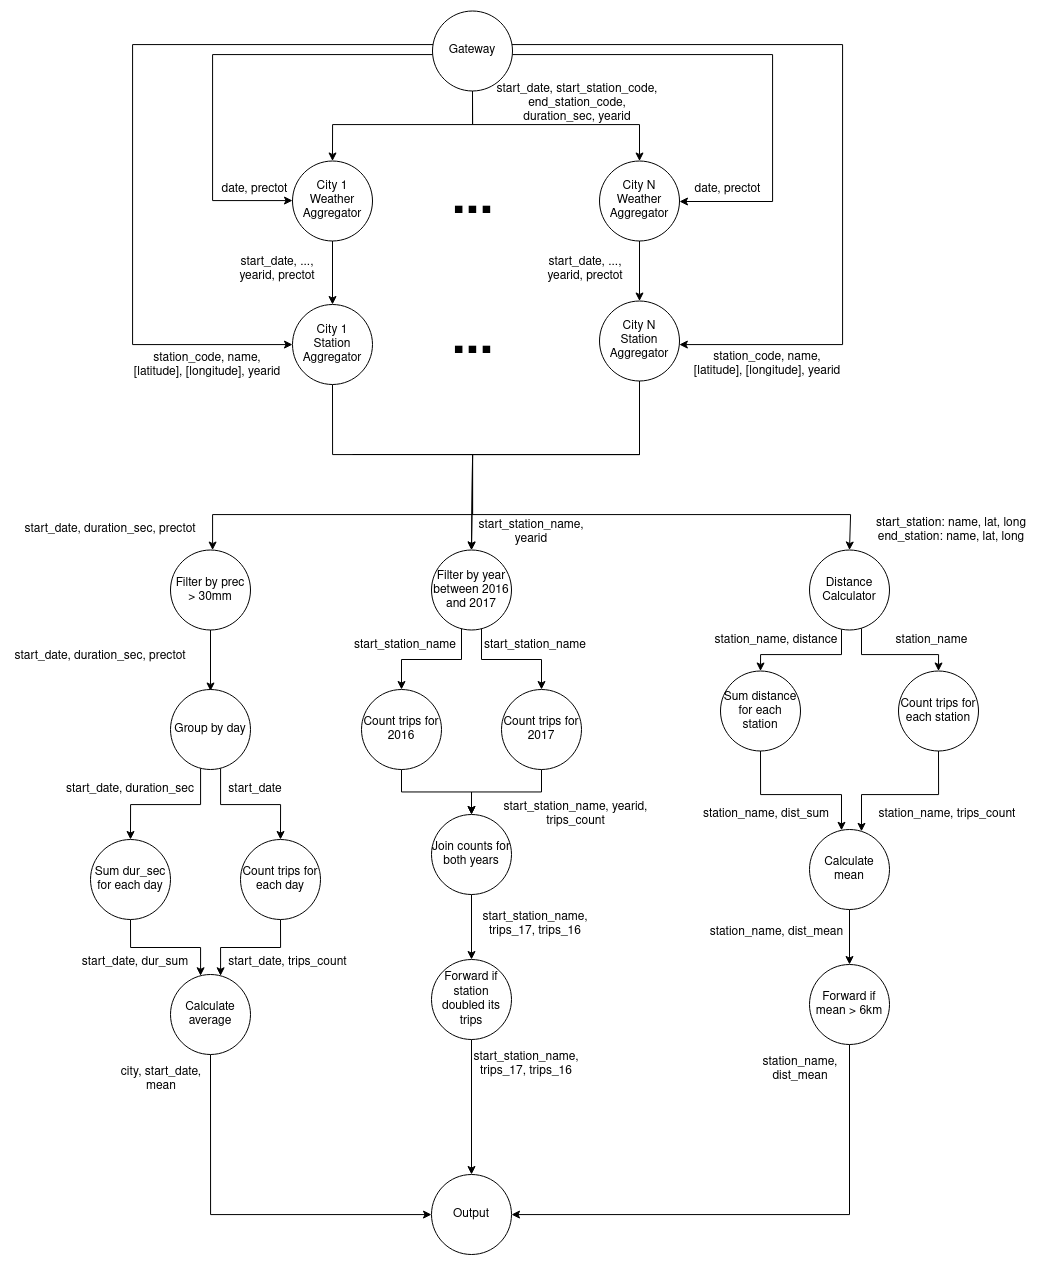
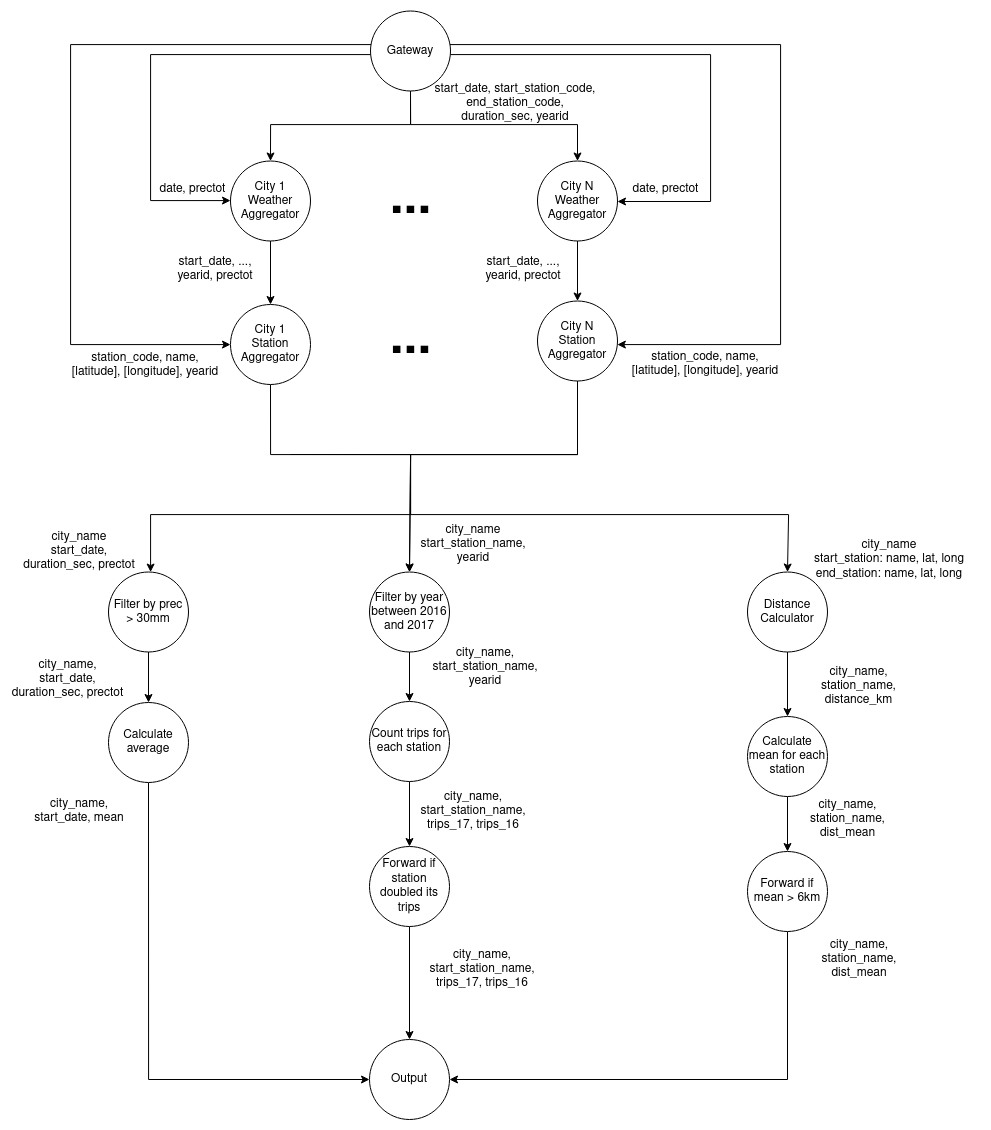
Add more docs and fix bugs

diff --git a/containers/common/readers.py b/containers/common/readers.py
@@ -1,4 +1,5 @@
 import json
+import logging
 from dataclasses import dataclass
 from typing import Iterator, Union, List
 
@@ -123,7 +124,11 @@ class WeatherReader:
         with open(self.__weather_path()) as f:
             _ = f.readline()
             for line in f:
-                weather_info = WeatherInfo.from_csv(self._city, line)
+                try:
+                    weather_info = WeatherInfo.from_csv(self._city, line)
+                except ValueError as e:
+                    logging.error(f"action: weather_info_next_data | result: failed | error: {e}")
+                    continue
                 yield weather_info
 
 
@@ -139,7 +144,11 @@ class StationReader:
         with open(self.__station_path()) as f:
             _ = f.readline()
             for line in f:
-                station_info = StationInfo.from_csv(self._city, line)
+                try:
+                    station_info = StationInfo.from_csv(self._city, line)
+                except ValueError as e:
+                    logging.error(f"action: station_info_next_data | result: failed | error: {e}")
+                    continue
                 yield station_info
 
 
@@ -156,7 +165,11 @@ class TripReader:
             _ = f.readline()
             trip_info_list = []
             for line in f:
-                trip_info = TripInfo.from_csv(self._city, line)
+                try:
+                    trip_info = TripInfo.from_csv(self._city, line)
+                except ValueError as e:
+                    logging.error(f"action: trip_info_next_data | result: failed | error: {e}")
+                    continue
                 trip_info_list.append(trip_info)
                 if len(trip_info_list) == CHUNK_SIZE:
                     yield trip_info_list

diff --git a/containers/simple_station_aggregator/simple_station_aggregator.py b/containers/simple_station_aggregator/simple_station_aggregator.py
@@ -50,15 +50,22 @@ class SimpleStationAggregator(BasicAggregator):
             eof_prec_filter_in_queue: [self._city_name.encode()]
         }
 
-    def __assert_station_name_exists(self, station_code: int, yearid: int):
+    def __check_station_name_exists(self, station_code: int, yearid: int) -> bool:
         if (station_code, yearid) not in self._stations:
-            raise ValueError(f"Station name not found for station code {station_code} and yearid {yearid}")
+            logging.warning(f"Station name not found for station code {station_code} and yearid {yearid}")
+            return False
+        return True
 
     def handle_message(self, message: bytes) -> Dict[str, List[bytes]]:
         packet = GatewayOut.decode(message)
 
-        self.__assert_station_name_exists(packet.start_station_code, packet.yearid)
-        self.__assert_station_name_exists(packet.end_station_code, packet.yearid)
+        check_1 = self.__check_station_name_exists(packet.start_station_code,
+                                                   packet.yearid)
+        check_2 = self.__check_station_name_exists(packet.end_station_code,
+                                                   packet.yearid)
+
+        if not check_1 or not check_2:
+            return {}
 
         start_station_name = self._stations[(packet.start_station_code, packet.yearid)]
 

diff --git a/containers/common/basic_client.py b/containers/common/basic_client.py
@@ -80,8 +80,8 @@ class BasicClient(ABC):
     def __send_data_from_city(self, city: str):
         logging.info(f"action: client_send_data | result: in_progress | city: {city}")
         push_socket = self._context.socket(zmq.PUSH)
-        push_socket.connect(self._push_addr)
         push_socket.setsockopt(zmq.LINGER, 0)
+        push_socket.connect(self._push_addr)
 
         try:
             self.__send_weather_data(push_socket, city)
@@ -93,12 +93,12 @@ class BasicClient(ABC):
         except Exception as e:
             logging.error(f"action: client_send_data | result: error | city: {city} | error: {e}")
         finally:
-            push_socket.close()
+            push_socket.close(-1)
 
     def __send_cities_data(self):
         threads = []
         for city in self._all_cities:
-            thread = threading.Thread(target=self.__send_data_from_city(city))
+            thread = threading.Thread(target=self.__send_data_from_city, args=(city,))
             threads.append(thread)
             thread.start()
 

diff --git a/containers/trips_counter/trips_counter.py b/containers/trips_counter/trips_counter.py
@@ -28,8 +28,7 @@ class TripsCounter(BasicFilter):
 
     def handle_eof(self, message: bytes) -> Dict[str, List[bytes]]:
         city_name = message.decode()
-        output = OrderedDict()
-        logging.info(f"action: trips_counter_handle_eof | city_name: {city_name} | data: {self._buffer}")
+        output = {}
         self._buffer.setdefault(city_name, {})
         for start_station_name, data in self._buffer[city_name].items():
             queue = build_hashed_queue_name(self._output_queue,
@@ -41,8 +40,7 @@ class TripsCounter(BasicFilter):
                                                         data[2016],
                                                         data[2017]).encode())
 
-        logging.info(f"action: trips_counter_send_data | city_name: {city_name} | data: {output}")
-        # self._buffer.pop(city_name)
+        self._buffer.pop(city_name)
         eof_output_queue = build_eof_in_queue_name(self._output_queue)
         output[eof_output_queue] = [message]
         return output

diff --git a/containers/common/rabbit_middleware.py b/containers/common/rabbit_middleware.py
@@ -16,7 +16,6 @@ class Rabbit(MessageQueue):
         self.connection = pika.BlockingConnection(
             pika.ConnectionParameters(host=host))
         self._channel = self.connection.channel()
-        self._channel.basic_qos(prefetch_count=1)
         self._declared_exchanges = []
         self._declared_queues = []
         self._consume_one_last_queue = None
@@ -84,8 +83,9 @@ class Rabbit(MessageQueue):
 
     def consume_one(self, queue: str, callback: Callable[[bytes], bool]):
         if queue != self._consume_one_last_queue:
+            if self._consume_one_last_queue is not None:
+                self._channel.cancel()
             self._consume_one_last_queue = queue
-            self._channel.cancel()
 
         self.declare_queue(queue)
         for (method, _, msg) in self._channel.consume(queue=queue, auto_ack=False):

diff --git a/containers/common/packet_factory.py b/containers/common/packet_factory.py
@@ -54,7 +54,7 @@ class PacketFactory:
 
     @staticmethod
     def handle_packet(data: bytes, weather_callback, station_callback, trip_callback):
-        decoded = json.loads(data.decode())
+        decoded = json.loads(data)
         packet_type = decoded["type"]
         payload = decoded["payload"]
         if packet_type == "weather":

diff --git a/containers/gateway/gateway.py b/containers/gateway/gateway.py
@@ -99,7 +99,6 @@ class Gateway:
         try:
             while True:
                 message = bytes(socket.recv())
-
                 PacketFactory.handle_packet(message,
                                             self.__handle_weather_packet,
                                             self.__handle_station_packet,

diff --git a/containers/dist_mean_provider/dist_mean_provider.py b/containers/dist_mean_provider/dist_mean_provider.py
@@ -4,7 +4,6 @@ import os
 from typing import Dict, List
 
 from common.basic_filter import BasicFilter
-from common.packets.eof import Eof
 from common.packets.station_dist_mean import StationDistMean
 from common.utils import initialize_log, build_eof_in_queue_name
 

diff --git a/containers/client/client.py b/containers/client/client.py
@@ -1,5 +1,6 @@
 import logging
 import os
+import time
 from typing import Iterator, List
 
 from common.basic_client import BasicClient

diff --git a/containers/common/basic_filter.py b/containers/common/basic_filter.py
@@ -1,6 +1,5 @@
 import abc
 import json
-import logging
 import os
 from abc import ABC
 from typing import List, Dict

diff --git a/README.md b/README.md
@@ -11,9 +11,15 @@
         * [DAG](#dag)
     * [Vista Física](#vista-física)
         * [Diagrama de robustez](#diagrama-de-robustez)
+        * [Sincronización de EOFs](#sincronización-de-eofs)
         * [Diagrama de despliegue](#diagrama-de-despliegue)
     * [Vista de Procesos](#vista-de-procesos)
         * [Diagrama de actividad](#diagrama-de-actividad)
+        * [Diagrama de secuencia](#diagrama-de-secuencia)
+    * [Vista de Desarrollo](#vista-de-desarrollo)
+        * [Diagrama de paquetes](#diagrama-de-paquetes)
+    * [Vista Lógica](#vista-lógica)
+        * [Diagrama de clases](#diagrama-de-clases)
 
 ## Documentación
 
@@ -33,9 +39,9 @@ Se deben generar los siguientes reportes:
 
 ### Arquitectura de Software
 
-La arquitectura es de tipo cliente-servidor, donde el servidor consiste en
-diferentes entidades, comunicadas entre sí mediante el broker de mensajes
-RabbitMQ.
+La arquitectura consiste en un cliente, que se comunica con un sistema distribuido
+mediante sockets ZMQ. El sistema procesa la información recibida utilizando RabbitMQ como
+broker de mensajes.
 
 ### Objetivos y limitaciones arquitectónicas
 
@@ -76,27 +82,58 @@ Esto favorece la escalabilidad del sistema, a costa de duplicar la información 
 
 #### Diagrama de robustez
 
-![robustness_diagram_1](docs/robustness_1.png)
+![robustness_diagram_1](docs/robustness_simple.png)
 
 Diagrama de robustez simplificado
 
 Como se puede ver, varias entidades del sistema pueden ser replicadas, para permitir un escalado
 horizontal.
 
-Algunas entidades poseen el estereotipo `<<City Affinity>>`. Esto quiere decir que, para dicha entidad,
-existirá un nodo por cada ciudad. Por ejemplo, se deben desplegar tres instancias de `Dist Mean Calculator`.
+El cliente se comunica con el sistema a través de dos endpoints: uno para enviar la información (`Gateway`),
+y otro para recibir los reportes (`Result Provider`). En ambos casos, la comunicación se realiza mediante
+sockets ZMQ.
+Dentro del sistema `Bike Rides Analyzer`, la comunicación se realiza mediante RabbitMQ.
 
-Los aggregators, ademas de tener affinity con una ciudad, pueden replicarse. Por ejemplo, pueden desplegarse
+Algunas entidades poseen el estereotipo `<<City Affinity>>`. Esto quiere decir que, para dicha entidad,
+existirá un nodo por cada ciudad. Por ejemplo, se deben desplegar tres instancias de `Weather Aggregator`.
+
+Los aggregators, además de tener affinity con una ciudad, pueden replicarse. Por ejemplo, pueden desplegarse
 3 `Weather Aggregator` para Washington, y 2 `Weather Aggregator` para Montreal.
 
-![robustness_diagram_2](docs/robustness_2.png)
+![robustness_query_1](docs/robustness_query_1.png)
 
-Diagrama de robustez del servidor, con información de cada una de las queues.
+![robustness_query_2](docs/robustness_query_2.png)
 
-En el diagrama anterior se observa la forma en que se distribuyen los mensajes entre los distintos
+![robustness_query_3](docs/robustness_query_3.png)
+
+Diagramas de robustez detallados, con información de las queues que se utilizan para comunicar las distintas
+etapas del pipeline.
+
+En los anteriores se observa la forma en que se distribuyen los mensajes entre los distintos
 componentes del sistema. Además, se puede ver el mecanismo por el cual se dividen los mensajes en aquellos
 nodos que poseen `<<City Affinity>>`: el nombre de la queue inicia con el nombre de la ciudad, seguido de un
-guión bajo.
+guion bajo.
+
+Por otro lado, se puede observar la forma en que se distribuye el trabajo entre las diferentes réplicas de
+cada nodo. Cada réplica tiene su propia queue, y se utiliza una función de hashing para determinar a qué
+réplica se le envía cada mensaje.
+
+#### Sincronización de EOFs
+
+![synchronizer](docs/synchronizer.png)
+
+Diagrama de sincronización entre las distintas etapas del pipeline.
+
+Para evitar condiciones de carrera al momento de recibir un EOF de parte del cliente, se definió un
+nodo `Synchronizer`. Cuando una réplica de un nodo recibe un EOF, envía un mensaje al Synchronizer.
+Una vez que el Synchronizer recibe un EOF de cada réplica, envía un EOF a todas las réplicas de la
+siguiente etapa del pipeline. Este mensaje se envía a la misma queue que se utiliza para enviar los
+datos de procesamiento, por lo que se garantiza que el EOF se encolará luego de que todos los datos
+estén encolados.
+
+Las queues de trabajo están asociadas a dos exchanges: el default, por donde reciben los datos a procesar,
+y el exchange `control`, mediante una routing_key. El Synchronizer envía los EOFs a este exchange, utilizando
+la routing_key correspondiente, para que se encolen en todas las réplicas.
 
 #### Diagrama de despliegue
 
@@ -115,7 +152,8 @@ Cada nodo puede desplegarse de manera independiente.
 
 ![activity_diagram_1](docs/activity_1.png)
 
-Diagrama de actividad de la comunicación entre el cliente, el Gateway y el primer aggregator.
+Diagrama de actividad de la comunicación entre el cliente, el Gateway, el primer aggregator y
+el Synchronizer
 
 En el diagrama anterior se puede observar el orden en que el cliente envía la información al Gateway, y
 el orden en que la esperan los aggregators.
@@ -124,15 +162,71 @@ El `Weather Aggregator` necesita la información climática para armar su side t
 procesar la información de los viajes hasta que no reciba todos los datos del clima.
 Lo mismo sucede con el `Station Aggregator`, que necesita la información de las estaciones.
 
+El cliente envía la información de cada ciudad en un thread separado.
+
 ![activity_diagram_2](docs/activity_2.png)
 
-Diagrama de actividad de la comunicación del `Station Aggregator` con el `Prec Filter` y `Distance Calculator`.
+Diagrama de actividad de la comunicación del `Station Aggregator` con el `Prec Filter` y `Result Provider`.
 
 En el diagrama se visualiza cómo se comunica la información, desde el momento en que se termina de agregar
 la información de las estaciones y el clima, hasta que se envía al primer conjunto de filtros y calculators.
 
-Se ve que, tanto el `Prec Filter` como el `Distance Calculator`, pueden realizar su trabajo utilizando
+Se puede ver que el `Prec Filter` puede realizar su trabajo utilizando
 exclusivamente la información del paquete que acaban de recibir, por lo que el escalado de éstas entidades
-es muy sencillo.
+es muy sencillo. Lo mismo ocurre con `Year Filter`, `Trip Count Provider`, `Distance Calculator` y `Dist Mean Provider`.
+
+El `Result Provider` se encarga de comunicarle al cliente la información de los reportes.
+
+#### Diagrama de secuencia
+
+![sequence_diagram_1](docs/sequence_1.png)
+
+Diagrama de secuencia del envio de datos del cliente al sistema.
+
+En el diagrama se observa con más detalle el camino que recorre la información desde el cliente hasta
+cada uno de los nodos del sistema.
+
+Los mensajes tipo EOF deben ser enviados al Synchronizer, para que los retenga hasta que todas las
+réplicas de un nodo hayan terminado de procesar los datos.
+
+![sequence_diagram_2](docs/sequence_2.png)
+
+Diagrama de secuencia de la obtención de los reportes por parte del cliente.
+
+Para obtener los resultados, el cliente le envía un mensaje al `Result Provider`.
+El `Result Provider`, al recibirlo, toma de la queue correspondiente un mensaje, que es
+reenviado inmediatamente al cliente.
+Si este mensaje es un EOF, el cliente sabe que ya recibió todos los resultados para un
+conjunto dado de (ciudad, reporte)
+
+### Vista de Desarrollo
+
+#### Diagrama de paquetes
+
+![package_diagram](docs/package.png)
+
+Diagrama de paquetes ilustrativo del sistema.
+
+En el diagrama se observa, a modo de ejemplo, la estructura de paquetes del
+`Weather Filter`, aunque es muy similar al resto de los componentes del sistema.
+
+Tanto el `BasicFilter` como el `WeatherFilter` utilizan la abstracción `Rabbit Middleware`
+para no depender de los detalles de implementación de la biblioteca pika.
+
+### Vista Lógica
+
+#### Diagrama de clases
+
+![class_diagram](docs/class.png)
+
+Diagrama de clases de los filtros, aggregators y el synchronizer.
+
+La forma en que se implementan estos tres tipos de componentes es muy similar:
+se define una clase que hereda de `BasicFilter`, `BasicAggregator` o `Synchronizer`,
+y se implementa el método `handle_message`, que se ejecuta cada vez que se recibe un mensaje.
+El retorno de este método es un conjunto de mensajes que se deben enviar a la siguiente etapa.
+
+Esta abstracción permite implementar envio de batches de mensajes desde la clase abstracta, sin
+que las clases concretas tengan que preocuparse por ello.
 
 
